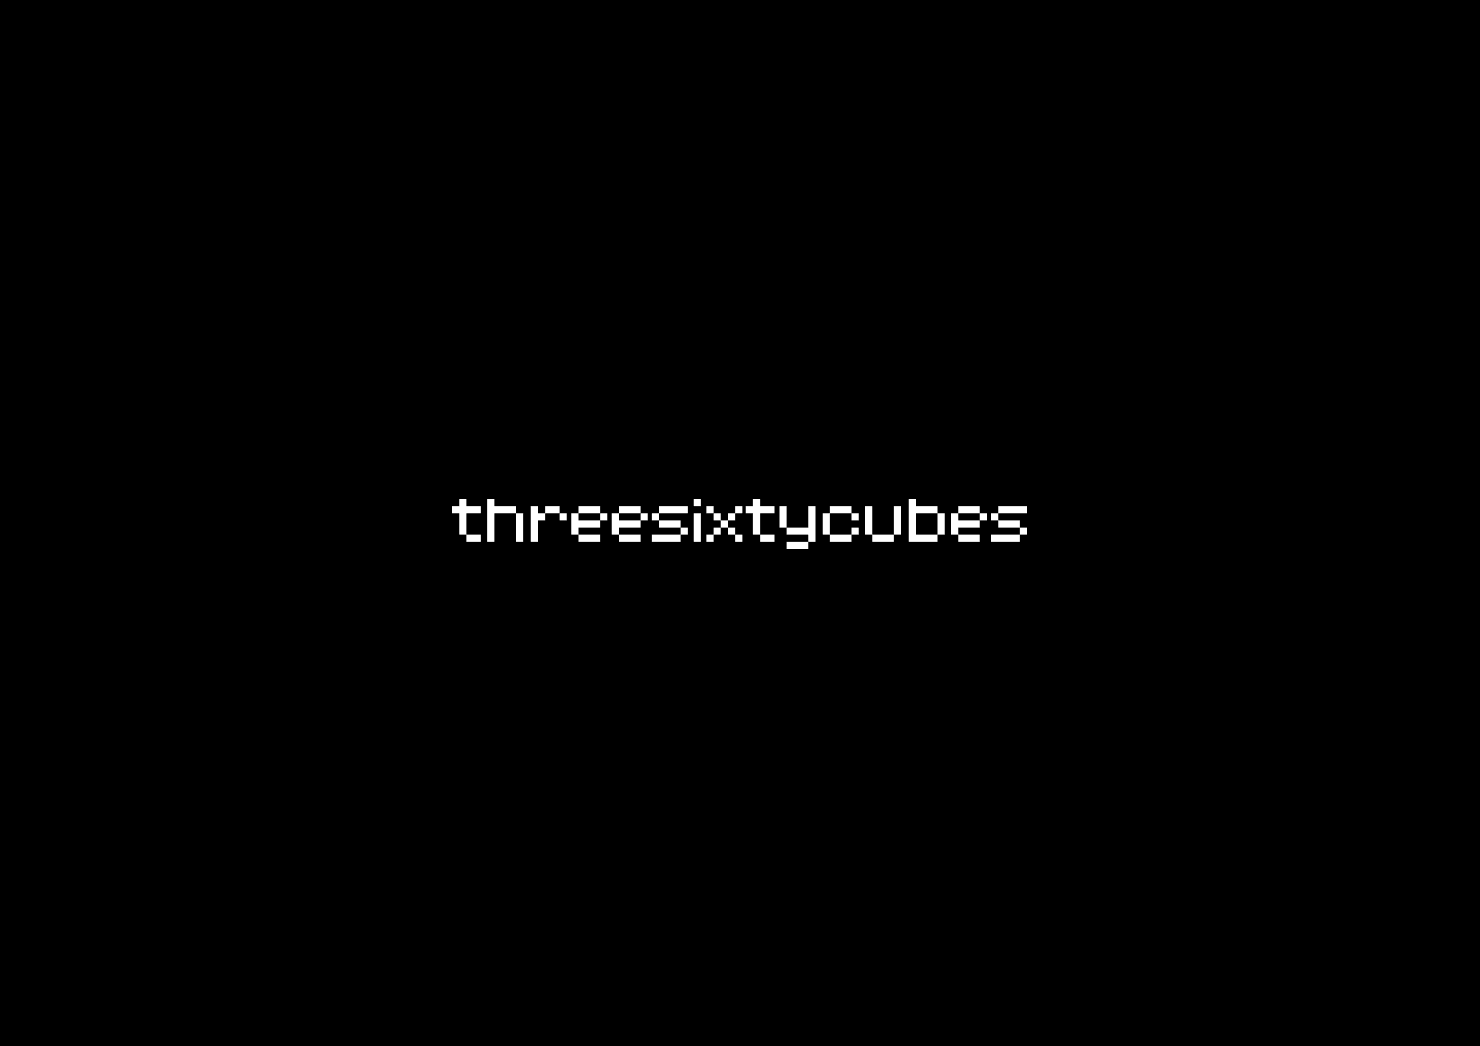
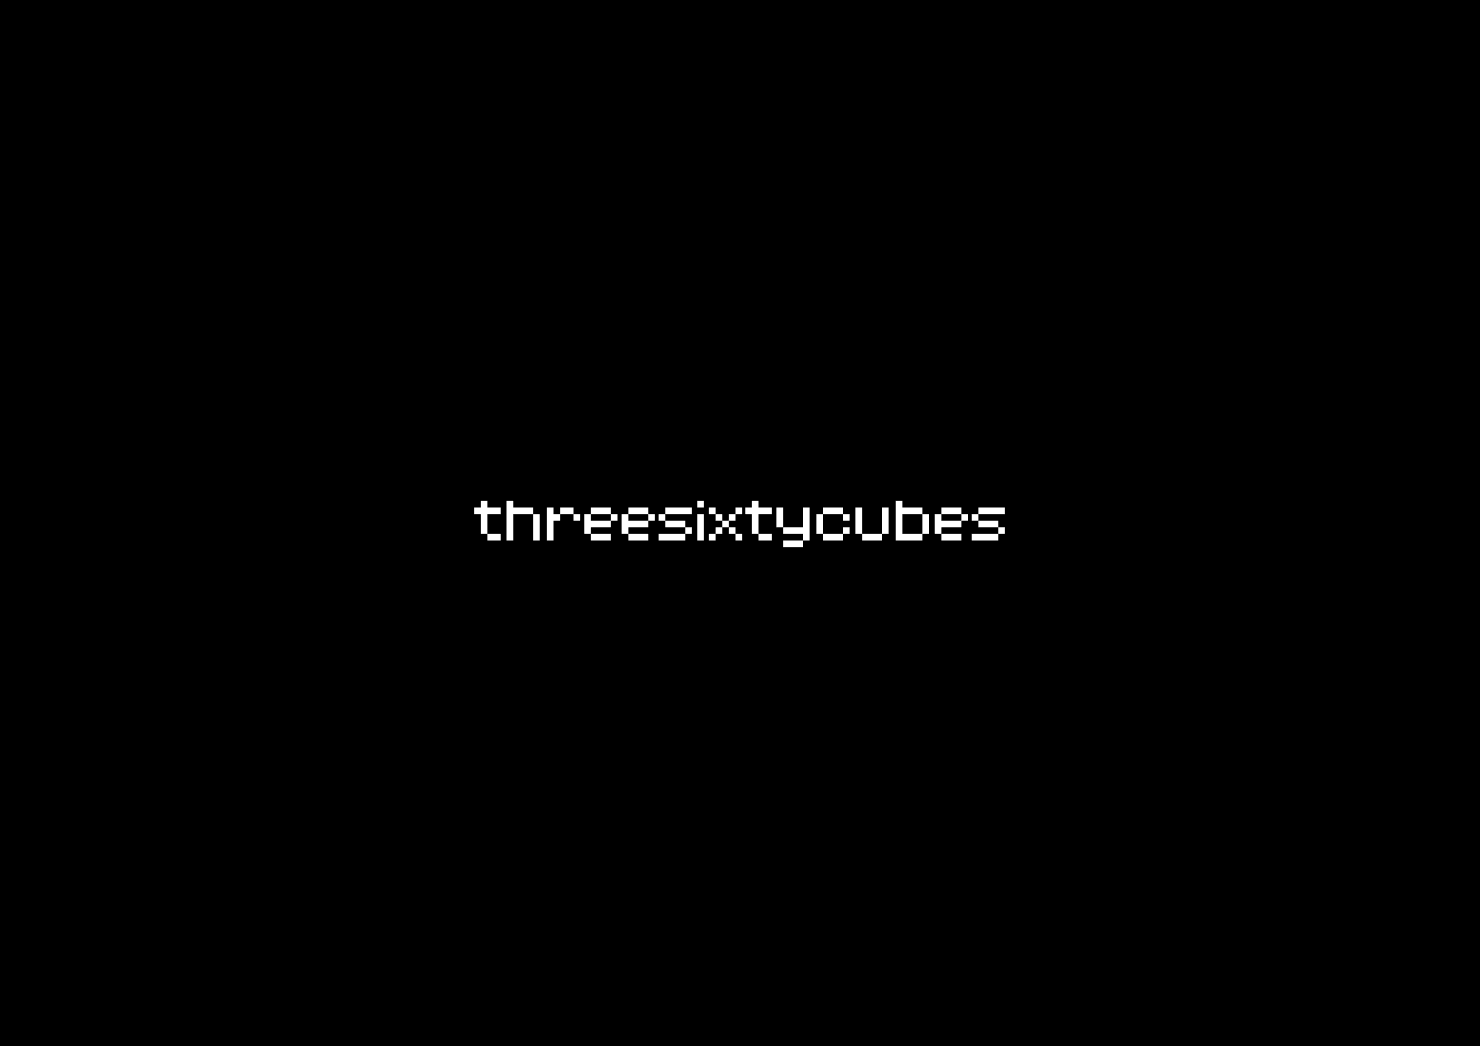
UPDATE: JSON assets

Changed region(s): [[0.3108, 0.4589, 0.7149, 0.5201]]

diff --git a/src/index.scss b/src/index.scss
@@ -4,7 +4,7 @@
   font-family: "Manrope";
   line-height: 1.5;
   font-weight: 400;
-  letter-spacing: -2%;
+  letter-spacing: -0.25px;
 
   /* color-scheme: light dark;
   color: rgba(255, 255, 255, 0.87);

diff --git a/src/components/blog/Snack/Snack.scss b/src/components/blog/Snack/Snack.scss
@@ -1,6 +1,8 @@
 .snack_cont {
     background-color: #F3F0EE;
     padding: 64px 0px 64px 0px;
+    white-space: pre-line;  
+    vertical-align: bottom;
 
     .snack_header_cont {
         display: flex;
